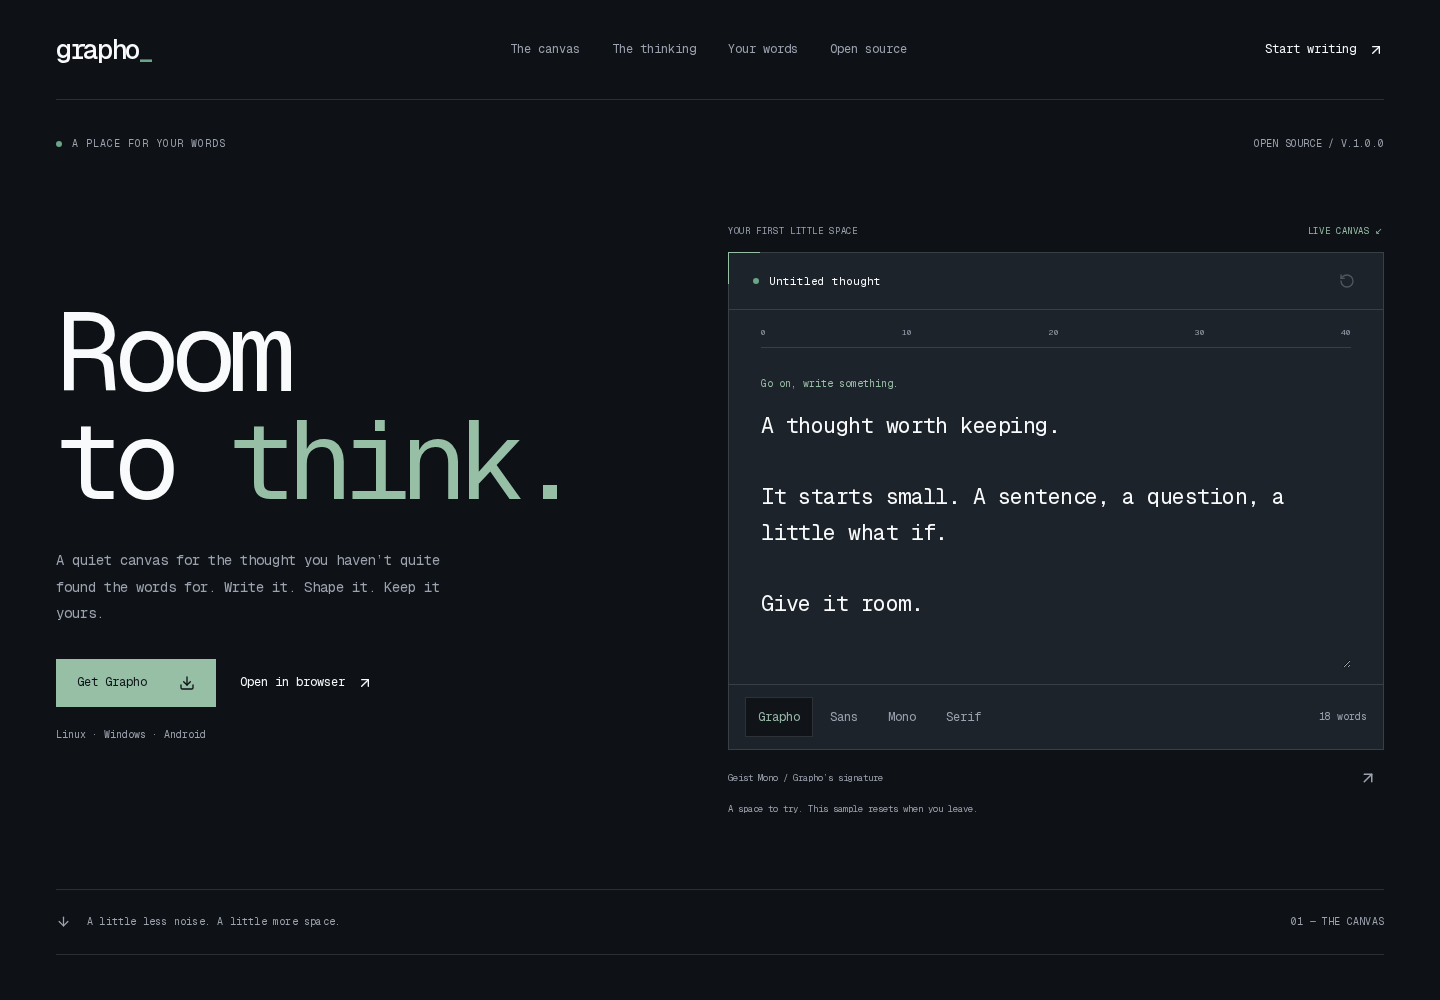
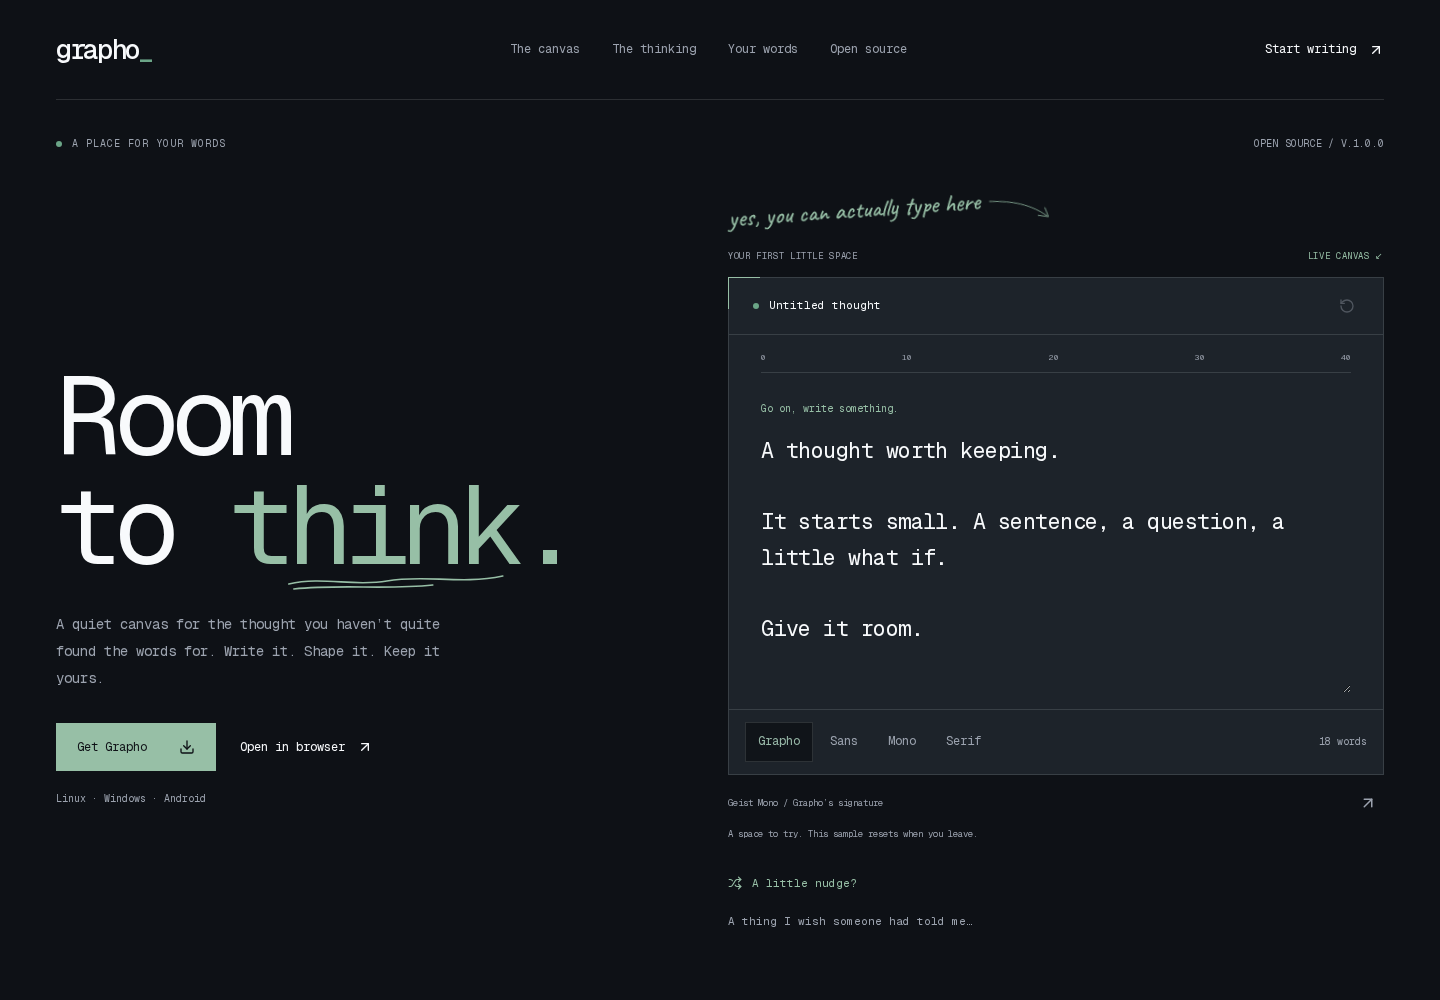
design: add playful details to landing studio

diff --git a/app/page.tsx b/app/page.tsx
@@ -4,6 +4,8 @@ import { ArrowDown, ArrowUpRight, Download, FileText, Folder, GitBranch, HardDri
 import { LandingCanvas } from "../components/site/LandingCanvas";
 import { LandingMotion } from "../components/site/LandingMotion";
 import { Navigation } from "../components/site/Navigation";
+import { HandArrow, Scribble } from "../components/site/LandingIllustrations";
+import { PaperFlight } from "../components/site/PaperFlight";
 import "./site.css";
 
 export const metadata: Metadata = {
@@ -32,7 +34,7 @@ export default function PublicSite() {
           <div className="studio-hero-top"><span className="studio-eyebrow"><i /> A PLACE FOR YOUR WORDS</span><span className="studio-edition">OPEN SOURCE / V.1.0.0</span></div>
           <div className="studio-hero-grid">
             <div className="studio-hero-copy">
-              <h1 id="hero-title">Room<br />to <span>think.</span></h1>
+              <h1 id="hero-title">Room<br />to <span className="studio-marked">think.<Scribble /></span></h1>
               <p>A quiet canvas for the thought you haven’t quite found the words for. Write it. Shape it. Keep it yours.</p>
               <Actions />
               <span className="studio-platforms">Linux · Windows · Android</span>
@@ -46,6 +48,7 @@ export default function PublicSite() {
           <span className="studio-eyebrow">02 / LESS, BUT BETTER</span>
           <div data-studio-reveal>
             <p className="studio-crossed">Another dashboard.<br />Another workspace.<br />Another thing to manage.</p>
+            <span className="studio-handnote studio-problem-note">I just wanted to write a proposal.</span>
             <h2>What if you<br />just <em>wrote?</em></h2>
             <p className="studio-body">Grapho gives your ideas a place to become documents. The tools arrive when you need them. The rest of the time, it’s you and the page.</p>
           </div>
@@ -76,7 +79,7 @@ export default function PublicSite() {
             <div className="studio-local-top"><span className="studio-eyebrow">05 / OWN YOUR WORDS</span><span><WifiOff size={16} /> OFFLINE IS A FEATURE</span></div>
             <div className="studio-local-grid">
               <h2 data-studio-reveal>Your words.<br />Your files.<br /><span>Your device.</span></h2>
-              <div className="studio-local-details" data-studio-reveal><HardDrive size={48} strokeWidth={1} /><p>Your writing shouldn’t need permission to exist.</p><p className="studio-body">Write without an account or an internet connection. Your documents stay on your device, ready when you are.</p><div className="studio-ownership"><span><Laptop size={18} /> Your device</span><i /><span><FileText size={18} /> Your documents</span></div></div>
+              <div className="studio-local-details" data-studio-reveal><HardDrive size={48} strokeWidth={1} /><p>Your writing shouldn’t need permission to exist.</p><p className="studio-body">Write without an account or an internet connection. Your documents stay on your device, ready when you are.</p><div className="studio-ownership"><span><Laptop size={18} /> Your device</span><i /><span><FileText size={18} /> Your documents</span></div><PaperFlight /></div>
             </div>
           </div>
         </section>
@@ -84,6 +87,7 @@ export default function PublicSite() {
         <section className="studio-export studio-wrap" id="export">
           <div className="studio-export-copy" data-studio-reveal><span className="studio-eyebrow">06 / MAKE IT SOMETHING</span><h2>From rough idea<br />to <em>ready to send.</em></h2><p className="studio-body">A good document deserves a good exit. Export your work in a format that belongs wherever it’s going next.</p><div className="studio-formats"><span>PDF</span><span>Markdown</span><span>HTML</span><span>Plain text</span></div><p className="studio-small">Native PDF export in the desktop app.</p></div>
           <div className="studio-document-stack" data-studio-reveal>
+            <span className="studio-handnote studio-export-note">look at you, all professional.<HandArrow /></span>
             <article className="studio-export-document"><header><span>GRAPHO / FIELD NOTES</span><span>001</span></header><div><span className="studio-eyebrow">AN IDEA, FINISHED.</span><h3>Good things<br />begin with<br /><em>a thought.</em></h3><p>Give it a little time.<br />A little structure.<br />And somewhere to go.</p></div><footer><span>MADE WITH GRAPHO</span><ArrowUpRight size={20} /></footer></article>
           </div>
         </section>
@@ -94,7 +98,7 @@ export default function PublicSite() {
         </section>
 
         <section className="studio-final studio-wrap">
-          <div data-studio-reveal><span className="studio-eyebrow">08 / IT STARTS HERE</span><h2>One blank page.<br /><span>Anything next.</span></h2><Actions /></div>
+          <div data-studio-reveal><span className="studio-eyebrow">08 / IT STARTS HERE</span><h2>One blank page.<br /><span>Anything next.</span></h2><Actions /><p className="studio-handnote studio-final-note">first drafts are allowed to be terrible.</p></div>
           <a className="studio-endmark" href="/app" aria-label="Start writing in Grapho"><ArrowUpRight strokeWidth={0.6} /></a>
         </section>
       </main>

diff --git a/app/site.css b/app/site.css
@@ -265,4 +265,44 @@
   .studio *, .studio *::before, .studio *::after { animation: none !important; transition: none !important; scroll-behavior: auto !important; }
   .studio-pending { opacity: 1; transform: none; }
 }
-@media print { .studio-pending { opacity: 1; transform: none; } .studio-nav, .studio-actions { display: none; } }
+/* Human marks sit in the margins; interface text keeps the canvas font. */
+.studio-handnote { font: 500 25px/1.15 "Caveat Variable", cursive; color: var(--studio-sage); letter-spacing: 0; }
+.studio-handnote svg, .studio-marked svg { stroke: currentColor; stroke-width: 1.6; stroke-linecap: round; stroke-linejoin: round; }
+.studio-marked { position: relative; display: inline-block; }
+.studio-marked svg { position: absolute; width: 85%; left: 6%; bottom: -14px; height: 24px; pointer-events: none; }
+.studio-marked path { stroke-dasharray: 250; stroke-dashoffset: 250; animation: studio-ink 850ms 450ms var(--studio-ease) forwards; }
+.studio-canvas-scene { position: relative; }
+.studio-canvas-note { position: relative; margin: -28px 0 24px; transform: rotate(-4deg); width: max-content; max-width: 100%; pointer-events: none; }
+.studio-canvas-note svg { position: absolute; width: 72px; height: 36px; right: -80px; top: 8px; }
+.studio-canvas-note path { stroke-dasharray: 160; stroke-dashoffset: 160; animation: studio-ink 700ms 650ms var(--studio-ease) forwards; }
+.studio-prompt { display: grid; gap: 8px; margin-top: 20px; }
+.studio-prompt button, .studio-flight button { width: max-content; max-width: 100%; display: inline-flex; align-items: center; gap: 10px; min-height: 44px; padding: 8px 0; background: transparent; color: var(--studio-sage); border: 0; font: 11px var(--studio-font); text-align: left; }
+.studio-prompt button:hover, .studio-flight button:hover { color: var(--studio-text); }
+.studio-prompt button:active, .studio-flight button:active { transform: translateY(1px); }
+.studio-prompt button svg { transition: transform 200ms var(--studio-ease); }
+.studio-prompt button:hover svg { transform: rotate(-15deg); }
+.studio-prompt > span { min-height: 32px; max-width: 360px; font-size: 11px; line-height: 1.6; color: var(--studio-muted); }
+.studio-problem-note { display: block; margin: 20px 0 0 -16px; transform: rotate(-5deg); }
+.studio-export-note { position: absolute; z-index: 2; top: -44px; left: 8px; transform: rotate(-5deg); pointer-events: none; }
+.studio-export-note svg { position: absolute; right: -56px; width: 64px; height: 40px; top: 12px; }
+.studio-final-note { margin-top: 28px !important; transform: rotate(-3deg); transform-origin: left; }
+.studio-flight { margin-top: 32px; }
+.studio-flight-track { position: relative; width: min(320px, 100%); height: 80px; overflow: hidden; }
+.studio-flight-track > svg { width: 100%; height: 100%; stroke: var(--studio-muted); stroke-width: 1; stroke-dasharray: 3 6; opacity: .5; }
+.studio-flight-track > span { position: absolute; left: 0; bottom: 4px; width: 48px; height: 36px; }
+.studio-flight .zine-plane { width: 100%; height: 100%; stroke: var(--studio-sage); stroke-width: 2; stroke-linecap: round; stroke-linejoin: round; }
+.studio-flight-track > .studio-plane-launched { animation: studio-paper-flight 1200ms var(--studio-ease) both; }
+.studio-flight > .studio-handnote { display: block; font-size: 23px; margin-top: 4px; }
+@keyframes studio-ink { to { stroke-dashoffset: 0; } }
+@keyframes studio-paper-flight { 0% { transform: translate(0, 0) rotate(-8deg); } 40% { transform: translate(100px, -36px) rotate(8deg); } 70% { transform: translate(180px, -12px) rotate(-12deg); } 100% { transform: translate(260px, -40px) rotate(-8deg); } }
+@media (max-width: 800px) { .studio-canvas-note { margin-top: 0; } .studio-export { row-gap: 88px; } }
+@media (max-width: 500px) {
+  .studio-handnote { font-size: 22px; }
+  .studio-canvas-note svg { right: -44px; width: 44px; top: 12px; }
+  .studio-export-note { font-size: 22px; }
+  .studio-export-note svg { right: -40px; width: 44px; }
+  .studio-marked svg { bottom: -16px; }
+  .studio-problem-note { margin-left: 0; }
+}
+@media (prefers-reduced-motion: reduce) { .studio-marked path, .studio-canvas-note path { stroke-dashoffset: 0; } .studio-flight-track > .studio-plane-launched { transform: translate(180px, -24px); } }
+@media print { .studio-pending { opacity: 1; transform: none; } .studio-nav, .studio-actions, .studio-flight, .studio-prompt { display: none; } }

diff --git a/components/site/LandingCanvas.tsx b/components/site/LandingCanvas.tsx
@@ -1,7 +1,8 @@
 "use client";
 
 import { useState } from "react";
-import { ArrowUpRight, RotateCcw } from "lucide-react";
+import { ArrowUpRight, RotateCcw, Shuffle } from "lucide-react";
+import { HandArrow } from "./LandingIllustrations";
 import Link from "next/link";
 
 const sample = "A thought worth keeping.\n\nIt starts small. A sentence, a question, a little what if.\n\nGive it room.";
@@ -11,14 +12,17 @@ const voices = [
   { id: "mono", label: "Mono", name: "System monospace" },
   { id: "serif", label: "Serif", name: "Georgia" },
 ] as const;
+const prompts = ["What if the small idea is the good one?", "A thing I wish someone had told me…", "The idea that keeps coming back.", "A very serious plan for a very silly project."];
 
 export function LandingCanvas() {
   const [voice, setVoice] = useState<(typeof voices)[number]>(voices[0]);
   const [text, setText] = useState(sample);
+  const [prompt, setPrompt] = useState(-1);
   const words = text.trim() ? text.trim().split(/\s+/).length : 0;
 
   return (
     <div className="studio-canvas-scene" id="canvas">
+      <div className="studio-handnote studio-canvas-note" aria-hidden="true">yes, you can actually type here<HandArrow /></div>
       <div className="studio-canvas-caption"><span>YOUR FIRST LITTLE SPACE</span><span>LIVE CANVAS ↙</span></div>
       <div className="studio-canvas">
         <div className="studio-canvas-top"><span><i /> Untitled thought</span><button type="button" onClick={() => setText(sample)} disabled={text === sample} aria-label="Reset sample text" title="Reset sample text"><RotateCcw size={16} /></button></div>
@@ -31,6 +35,7 @@ export function LandingCanvas() {
       </div>
       <div className="studio-canvas-foot"><span aria-live="polite">{voice.name} / {voice.id === "default" ? "Grapho’s signature" : "Canvas voice"}</span><Link href="/app" aria-label="Open the full Grapho editor"><ArrowUpRight size={18} /></Link></div>
       <p id="studio-demo-note">A space to try. This sample resets when you leave.</p>
+      <div className="studio-prompt"><button type="button" onClick={() => setPrompt(current => (current + 1) % prompts.length)}><Shuffle size={14} /> A little nudge?</button><span aria-live="polite">{prompt < 0 ? "For when the blank page stares back." : prompts[prompt]}</span></div>
     </div>
   );
 }

diff --git a/components/site/PaperFlight.tsx b/components/site/PaperFlight.tsx
@@ -1,0 +1,18 @@
+"use client";
+
+import { useState } from "react";
+import { AirplaneDoodle } from "./LandingIllustrations";
+
+export function PaperFlight() {
+  const [flights, setFlights] = useState(0);
+  return (
+    <div className="studio-flight">
+      <div className="studio-flight-track" aria-hidden="true">
+        <svg viewBox="0 0 320 80" fill="none"><path d="M12 65C80 65 80 8 130 14S173 78 233 48 280 20 302 12" /></svg>
+        <span key={flights} className={flights ? "studio-plane-launched" : ""}><AirplaneDoodle /></span>
+      </div>
+      <button type="button" onClick={() => setFlights(current => current + 1)}>Give it a little flight ↗</button>
+      <span className="studio-handnote" aria-live="polite">{flights ? "Still works in airplane mode." : "no Wi-Fi. still a good idea."}</span>
+    </div>
+  );
+}

diff --git a/artifacts/landing-studio/README.md b/artifacts/landing-studio/README.md
@@ -15,6 +15,10 @@ Chromium's actual font inspection reported `Geist Mono / GeistMono-Regular / isC
 
 The writing sample is editable, offers all four font choices, preserves text across switches, counts words, supports reset, and explicitly explains that its contents are temporary.
 
+## Playful details
+
+Existing Caveat handwriting and SVG illustrations add sage margin notes, a drawn underline, and arrows around the canvas and export story. A keyboard/touch-accessible prompt button cycles writing ideas without replacing the visitor's text. The offline section includes a paper airplane that flies when activated and announces its result. Reduced motion shows a static result. Browser checks cover prompt cycling, text preservation, flight activation, and reduced-motion animation suppression, alongside the responsive checks below.
+
 ## Validation
 
 - TypeScript passes.
